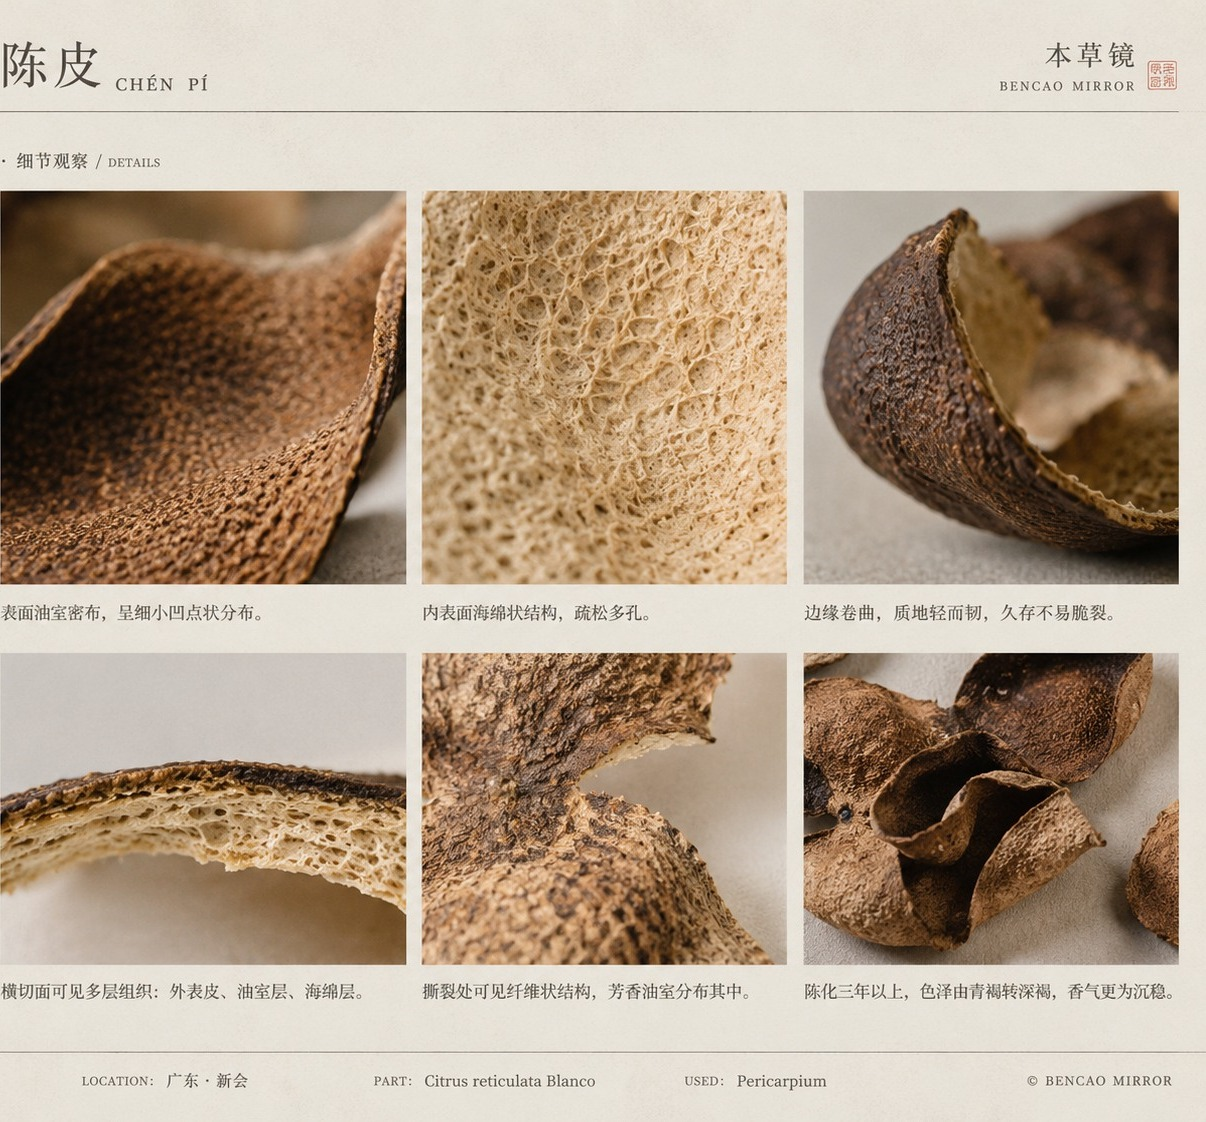
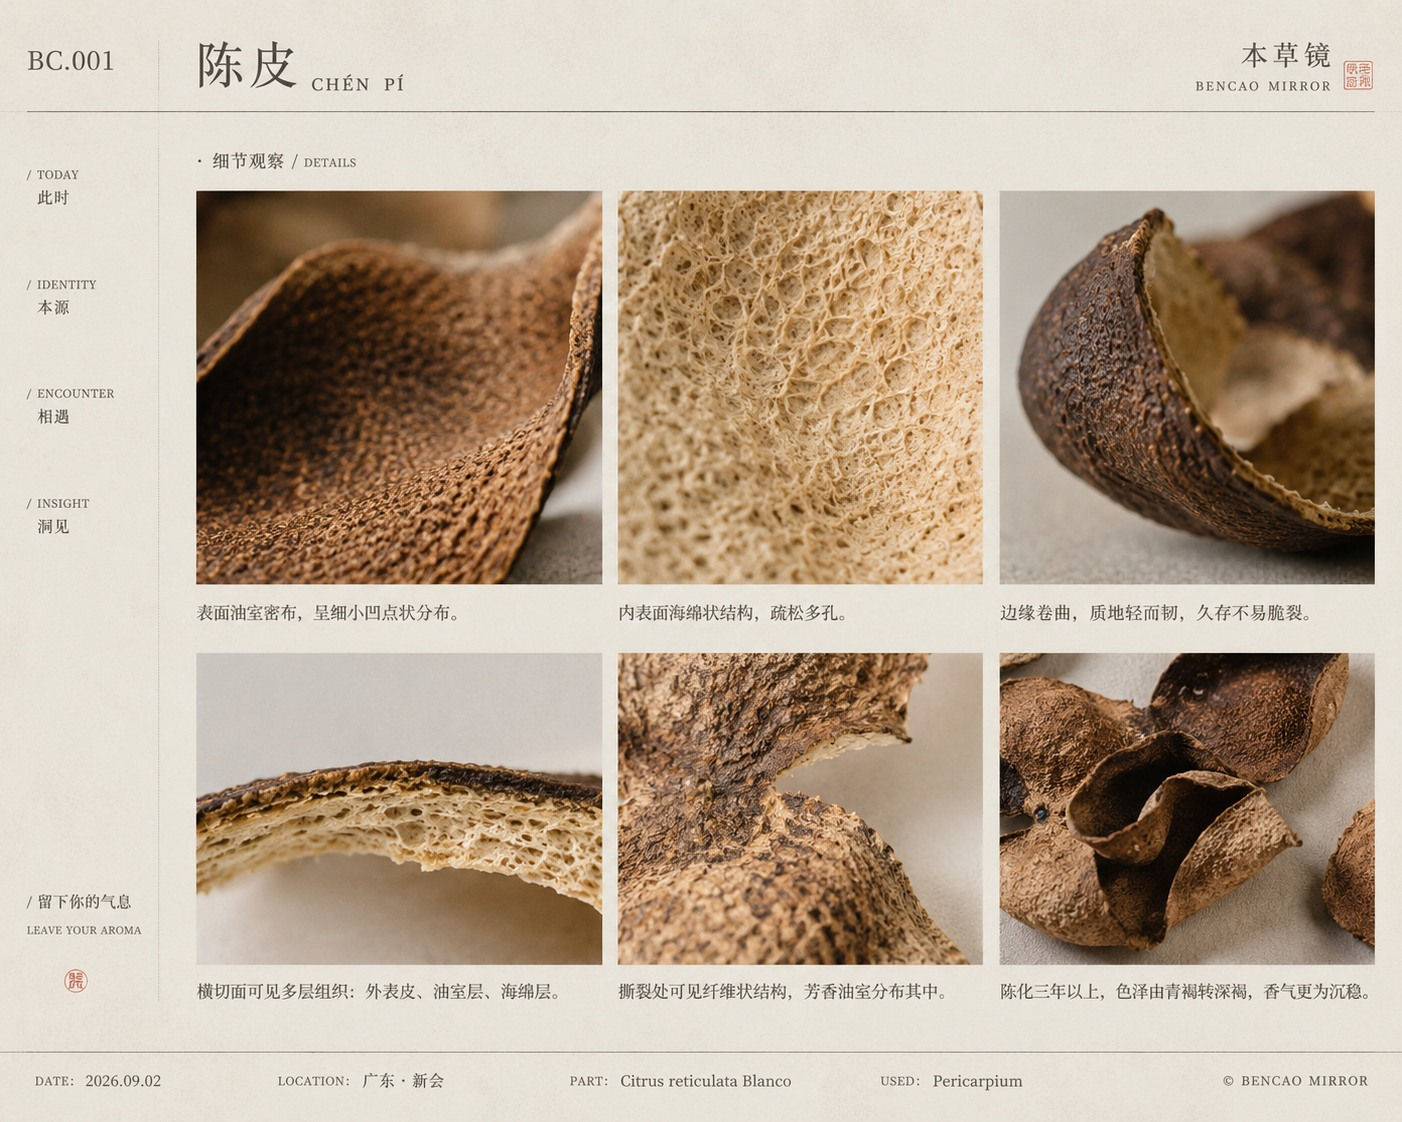
Revert plate left-crop; restore 标本盘 plate originals
SPECIMEN PLATE (图像档案) images were over-cut — restore the six plate
originals and drop their cache-bust query.

diff --git a/app.js b/app.js
@@ -6,7 +6,7 @@ const FILE_PAGE = name => `https://commons.wikimedia.org/wiki/File:${encodeURICo
 const HERBS = [
   {
     id:'bc001', no:'BC.001', name:'陈皮', pinyin:'CHÉN PÍ', latinDrug:'Citri Reticulatae Pericarpium', plant:'Citrus reticulata Blanco', part:'干燥成熟果皮', color:'#A87546', aromaColors:['#D79A55','#B8743E','#81705C'],
-    hero:'./images/bc001-hero-vf1.webp', origin:'./images/bc001-02-fresh-peel.jpg', material:'./images/bc001-03-dried-material.jpg', plate:'./images/bc001-study-detail-grid-01.jpg?v=ls2', detail1:'./images/bc001-atlas-outer.jpg', detail2:'./images/bc001-atlas-inner.jpg?v=ls2',
+    hero:'./images/bc001-hero-vf1.webp', origin:'./images/bc001-02-fresh-peel.jpg', material:'./images/bc001-03-dried-material.jpg', plate:'./images/bc001-study-detail-grid-01.jpg', detail1:'./images/bc001-atlas-outer.jpg', detail2:'./images/bc001-atlas-inner.jpg?v=ls2',
     heroPos:'56% 48%',
     today:['你可能已经见过它很多次。','今天，认真看一次。'],
     identity:{lead:'它来自成熟柑橘的果皮。',sub:'从果实到干燥后的材料，变化发生在时间里。',originTitle:'从果实开始。',originText:'剥开的果皮有清楚的内外两面。此时，它仍保留新鲜果实的颜色与水分。',materialTitle:'时间参与了形成。',materialText:'水分逐渐离开，果皮变干、卷曲、变轻；颜色、纹理与触感也随之改变。',note:'时间不是唯一的质量标准。品种、原料、加工与储存同样重要。'},
@@ -19,7 +19,7 @@ const HERBS = [
   },
   {
     id:'bc002', no:'BC.002', name:'薄荷', pinyin:'BÒ HÉ', latinDrug:'Menthae Haplocalycis Herba', plant:'Mentha haplocalyx Briq.', part:'干燥地上部分', color:'#71836B', aromaColors:['#75A06F','#84A876','#C7B55C'],
-    hero:'./images/bc002-hero-vf1.webp', origin:'./images/bc002-hero-vf1.webp', material:'./images/bc002-detail-01-vu1.jpg', plate:'./images/bc002-atlas-plate-vu1.jpg?v=ls2', detail1:'./images/bc002-detail-02-vu1.jpg?v=ls2', detail2:'./images/bc002-detail-03-vu1.jpg', atlasImages:[['./images/bc002-detail-01-vu1.jpg','植株全貌','植株挺立 · 叶片对生 · 叶色青绿'],['./images/bc002-detail-02-vu1.jpg?v=ls2','叶片表面','叶面皱缩 · 脉络清晰 · 细小腺点'],['./images/bc002-detail-03-vu1.jpg','叶片背面','叶背较浅 · 脉络凸起 · 细柔毛'],['./images/bc002-detail-04-vu1.jpg','茎与叶节','茎呈四棱 · 具细柔毛 · 叶对生于节上'],['./images/bc002-detail-05-vu1.jpg?v=ls2','花序','轮伞花序顶生 · 花小而密']], heroPos:'50% 45%',
+    hero:'./images/bc002-hero-vf1.webp', origin:'./images/bc002-hero-vf1.webp', material:'./images/bc002-detail-01-vu1.jpg', plate:'./images/bc002-atlas-plate-vu1.jpg', detail1:'./images/bc002-detail-02-vu1.jpg?v=ls2', detail2:'./images/bc002-detail-03-vu1.jpg', atlasImages:[['./images/bc002-detail-01-vu1.jpg','植株全貌','植株挺立 · 叶片对生 · 叶色青绿'],['./images/bc002-detail-02-vu1.jpg?v=ls2','叶片表面','叶面皱缩 · 脉络清晰 · 细小腺点'],['./images/bc002-detail-03-vu1.jpg','叶片背面','叶背较浅 · 脉络凸起 · 细柔毛'],['./images/bc002-detail-04-vu1.jpg','茎与叶节','茎呈四棱 · 具细柔毛 · 叶对生于节上'],['./images/bc002-detail-05-vu1.jpg?v=ls2','花序','轮伞花序顶生 · 花小而密']], heroPos:'50% 45%',
     today:['先不要把它等同于“清凉”。','先看一片叶。'],
     identity:{lead:'它来自一株有四棱茎、对生叶的薄荷。',sub:'被采收、干燥以后，叶、茎与花序一起成为药材的地上部分。',originTitle:'叶与茎先构成它。',originText:'叶片有清楚的脉络和锯齿边缘；茎有明显棱角。新鲜时，绿色与水分让结构显得舒展。',materialTitle:'叶、茎与花序共同构成地上部分。',materialText:'当前 Visual Study 先记录鲜活结构与可见特征；正式公开版再补拍同一摄影体系下的干燥药材整体。',note:'揉动会快速改变薄荷的气息，所以第一次闻之前，先不要揉。'},
     evidence:{mark:'药', title:'Menthae Haplocalycis Herba', lines:['干燥地上部分','辛，凉 · 肺、肝'], note:'传统 / 2025《中国药典》体系'},
@@ -31,7 +31,7 @@ const HERBS = [
   },
   {
     id:'bc003', no:'BC.003', name:'枸杞', pinyin:'GǑU QǏ', latinDrug:'Lycii Fructus', plant:'Lycium barbarum L.', part:'干燥成熟果实', color:'#A55343', aromaColors:['#C96D58','#B65B4B','#9C7659'],
-    hero:'./images/bc003-hero-vf1.webp', origin:'./images/bc003-hero-vf1.webp', material:'./images/bc003-detail-05-vu1.jpg?v=ls2', plate:'./images/bc003-atlas-plate-vu1.jpg?v=ls2', detail1:'./images/bc003-detail-03-vu1.jpg', detail2:'./images/bc003-detail-04-vu1.jpg', atlasImages:[['./images/bc003-detail-01-vu1.jpg','果枝全貌','枝条纤细 · 叶片互生 · 果实椭圆'],['./images/bc003-detail-02-vu1.jpg?v=ls2','叶片表面','叶片狭长 · 叶脉清晰 · 表面具细密纹理'],['./images/bc003-detail-03-vu1.jpg','果实表面','果实椭圆 · 表皮薄而光滑 · 微具纵纹'],['./images/bc003-detail-04-vu1.jpg','果实剖面','果肉柔软多汁 · 内含多枚扁平种子'],['./images/bc003-detail-05-vu1.jpg?v=ls2','干燥材料','干燥后果实皱缩 · 长椭圆形 · 表面纵皱']], heroPos:'50% 48%',
+    hero:'./images/bc003-hero-vf1.webp', origin:'./images/bc003-hero-vf1.webp', material:'./images/bc003-detail-05-vu1.jpg?v=ls2', plate:'./images/bc003-atlas-plate-vu1.jpg', detail1:'./images/bc003-detail-03-vu1.jpg', detail2:'./images/bc003-detail-04-vu1.jpg', atlasImages:[['./images/bc003-detail-01-vu1.jpg','果枝全貌','枝条纤细 · 叶片互生 · 果实椭圆'],['./images/bc003-detail-02-vu1.jpg?v=ls2','叶片表面','叶片狭长 · 叶脉清晰 · 表面具细密纹理'],['./images/bc003-detail-03-vu1.jpg','果实表面','果实椭圆 · 表皮薄而光滑 · 微具纵纹'],['./images/bc003-detail-04-vu1.jpg','果实剖面','果肉柔软多汁 · 内含多枚扁平种子'],['./images/bc003-detail-05-vu1.jpg?v=ls2','干燥材料','干燥后果实皱缩 · 长椭圆形 · 表面纵皱']], heroPos:'50% 48%',
     today:['它常常以一把红色出现。','今天，只看一颗。'],
     identity:{lead:'它来自宁夏枸杞的成熟果实。',sub:'成熟、采收、干燥之后，一颗多汁果实变成皱缩而柔韧的果干材料。',originTitle:'先是一颗成熟果实。',originText:'鲜果呈红色，轮廓饱满。单独看一颗时，果柄端、果尖与细微色差才会出现。',materialTitle:'干燥把水分收进皱纹里。',materialText:'果皮皱缩，体积减小；表面由光滑转为起伏，内部仍可能保留一定柔润感。',note:'枸杞常被当作食物，但本草镜第一版仍不鼓励品尝来源不明的材料。'},
     evidence:{mark:'药', title:'Lycii Fructus', lines:['宁夏枸杞的干燥成熟果实','甘，平 · 肝、肾'], note:'传统 / 2025《中国药典》体系'},
@@ -43,7 +43,7 @@ const HERBS = [
   },
   {
     id:'bc004', no:'BC.004', name:'桂花', pinyin:'GUÌ HUĀ', latinDrug:'Osmanthus fragrans (Thunb.) Lour.', plant:'Osmanthus fragrans (Thunb.) Lour.', part:'花（本草镜体验材料：来源明确的干燥桂花）', color:'#C49A4C', aromaColors:['#D6BA68','#C89E49','#A9845C'],
-    hero:'./images/bc004-hero-vf1.webp', origin:'./images/bc004-hero-vf1.webp', material:'./images/bc004-detail-05-vu1.jpg?v=ls2', plate:'./images/bc004-atlas-plate-vu1.jpg?v=ls2', detail1:'./images/bc004-detail-02-vu1.jpg?v=ls2', detail2:'./images/bc004-detail-03-vu1.jpg', atlasImages:[['./images/bc004-detail-01-vu1.jpg','花枝全貌','花簇生于叶腋 · 花叶相映 · 枝条舒展'],['./images/bc004-detail-02-vu1.jpg?v=ls2','花簇','小花密集成簇 · 花瓣肉质 · 淡黄色'],['./images/bc004-detail-03-vu1.jpg','单花结构','花冠四瓣 · 花瓣厚实 · 中央具短花蕊'],['./images/bc004-detail-04-vu1.jpg','叶片与叶脉','叶片革质 · 表面光滑 · 叶脉清晰'],['./images/bc004-detail-05-vu1.jpg?v=ls2','干燥花材','干燥后呈金黄色 · 花形完整或微卷']], heroPos:'50% 52%',
+    hero:'./images/bc004-hero-vf1.webp', origin:'./images/bc004-hero-vf1.webp', material:'./images/bc004-detail-05-vu1.jpg?v=ls2', plate:'./images/bc004-atlas-plate-vu1.jpg', detail1:'./images/bc004-detail-02-vu1.jpg?v=ls2', detail2:'./images/bc004-detail-03-vu1.jpg', atlasImages:[['./images/bc004-detail-01-vu1.jpg','花枝全貌','花簇生于叶腋 · 花叶相映 · 枝条舒展'],['./images/bc004-detail-02-vu1.jpg?v=ls2','花簇','小花密集成簇 · 花瓣肉质 · 淡黄色'],['./images/bc004-detail-03-vu1.jpg','单花结构','花冠四瓣 · 花瓣厚实 · 中央具短花蕊'],['./images/bc004-detail-04-vu1.jpg','叶片与叶脉','叶片革质 · 表面光滑 · 叶脉清晰'],['./images/bc004-detail-05-vu1.jpg?v=ls2','干燥花材','干燥后呈金黄色 · 花形完整或微卷']], heroPos:'50% 52%',
     today:['它很小，香气却常常先于形状被记住。','今天，先看见它。'],
     identity:{lead:'它来自木犀叶腋里成簇开放的小花。',sub:'花朵只有很小的尺度。干燥之后，颜色、卷曲和碎裂让它变成另一种轻盈材料。',originTitle:'先从叶腋里的花簇开始。',originText:'木犀的花聚在叶腋，花冠可呈黄白、淡黄、黄色或橙红。完整花朵本身很小。',materialTitle:'干燥会放大“轻”和“碎”。',materialText:'花冠收缩、颜色加深，花梗与碎瓣混在一起。少量材料就形成很高的表面积。',note:'桂花在本草镜中按植物与感官材料呈现，不把它标成现行《中国药典》标准药材。'},
     evidence:{mark:'', title:'Osmanthus fragrans (Thunb.) Lour.', lines:['木犀科 · 木犀属','花簇生叶腋 · 花极芳香'], note:'植物学身份记录；这里不使用“药”标签'},
@@ -55,7 +55,7 @@ const HERBS = [
   },
   {
     id:'bc005', no:'BC.005', name:'菊花', pinyin:'JÚ HUĀ', latinDrug:'Chrysanthemi Flos', plant:'Chrysanthemum morifolium Ramat.', part:'干燥头状花序', color:'#9A8B60', aromaColors:['#D3C48E','#B7A66D','#95836B'],
-    hero:'./images/bc005-hero-vf1.webp', origin:'./images/bc005-hero-vf1.webp', material:'./images/bc005-detail-05-vu1.jpg?v=ls2', plate:'./images/bc005-atlas-plate-vu1.jpg?v=ls2', detail1:'./images/bc005-detail-02-vu1.jpg?v=ls2', detail2:'./images/bc005-detail-03-vu1.jpg', atlasImages:[['./images/bc005-detail-01-vu1.jpg','花枝全貌','植株挺立 · 花枝分枝 · 花朵簇生'],['./images/bc005-detail-02-vu1.jpg?v=ls2','花序中心','管状花密集 · 球状排列 · 黄色'],['./images/bc005-detail-03-vu1.jpg','舌状花','舌状花呈长条形 · 边缘微卷 · 质地薄柔'],['./images/bc005-detail-04-vu1.jpg','花叶与花蕾','叶片羽状分裂 · 花蕾外层苞片紧密包裹'],['./images/bc005-detail-05-vu1.jpg?v=ls2','干燥花材','干燥后花形完整 · 瓣片皱缩卷曲 · 质地轻脆']], heroPos:'50% 46%',
+    hero:'./images/bc005-hero-vf1.webp', origin:'./images/bc005-hero-vf1.webp', material:'./images/bc005-detail-05-vu1.jpg?v=ls2', plate:'./images/bc005-atlas-plate-vu1.jpg', detail1:'./images/bc005-detail-02-vu1.jpg?v=ls2', detail2:'./images/bc005-detail-03-vu1.jpg', atlasImages:[['./images/bc005-detail-01-vu1.jpg','花枝全貌','植株挺立 · 花枝分枝 · 花朵簇生'],['./images/bc005-detail-02-vu1.jpg?v=ls2','花序中心','管状花密集 · 球状排列 · 黄色'],['./images/bc005-detail-03-vu1.jpg','舌状花','舌状花呈长条形 · 边缘微卷 · 质地薄柔'],['./images/bc005-detail-04-vu1.jpg','花叶与花蕾','叶片羽状分裂 · 花蕾外层苞片紧密包裹'],['./images/bc005-detail-05-vu1.jpg?v=ls2','干燥花材','干燥后花形完整 · 瓣片皱缩卷曲 · 质地轻脆']], heroPos:'50% 46%',
     today:['“一朵菊花”其实有很多层。','今天，从花心往外看。'],
     identity:{lead:'它来自菊的头状花序。',sub:'盛开时采收，经过不同加工方式后，花序整体成为干燥材料。',originTitle:'它不是单一的一片花瓣。',originText:'外围与中央的花在同一个花序里形成层次；颜色、形态与排列让整朵花有明确中心。',materialTitle:'干燥保留了花序，也改变了支撑。',materialText:'花瓣折缩、花心变得密实或松散，整体变轻、变脆；不同产地和加工方式也会带来外观差异。',note:'菊花药材按产地与加工方法可分多种类型；原型页面不把某一张视觉研究图当作全部菊花。'},
     evidence:{mark:'药', title:'Chrysanthemi Flos', lines:['菊的干燥头状花序','甘、苦，微寒 · 肺、肝'], note:'传统 / 2025《中国药典》体系'},
@@ -67,7 +67,7 @@ const HERBS = [
   },
   {
     id:'bc006', no:'BC.006', name:'紫苏', pinyin:'ZǏ SŪ', latinDrug:'Perillae Folium', plant:'Perilla frutescens (L.) Britt.', part:'干燥叶（或带嫩枝）', color:'#74586C', aromaColors:['#8A687C','#745768','#87735C'],
-    hero:'./images/bc006-hero-vf1.webp', origin:'./images/bc006-hero-vf1.webp', material:'./images/bc006-detail-05-vu1.jpg?v=ls2', plate:'./images/bc006-atlas-plate-vu1.jpg?v=ls2', detail1:'./images/bc006-detail-02-vu1.jpg?v=ls2', detail2:'./images/bc006-detail-03-vu1.jpg', atlasImages:[['./images/bc006-detail-01-vu1.jpg','叶枝全貌','植株挺立 · 叶片对生 · 叶形宽卵 · 叶缘锯齿'],['./images/bc006-detail-02-vu1.jpg?v=ls2','叶片表面','叶面紫红 · 脉络清晰 · 具细小腺点'],['./images/bc006-detail-03-vu1.jpg','叶片背面','叶背色较浅 · 脉络隆起 · 密被短柔毛'],['./images/bc006-detail-04-vu1.jpg','茎与叶节','茎呈紫绿色 · 具细柔毛 · 叶对生于节上'],['./images/bc006-detail-05-vu1.jpg?v=ls2','干燥叶材','干燥后叶片卷曲 · 质地轻脆 · 色泽紫褐']], heroPos:'50% 45%',
+    hero:'./images/bc006-hero-vf1.webp', origin:'./images/bc006-hero-vf1.webp', material:'./images/bc006-detail-05-vu1.jpg?v=ls2', plate:'./images/bc006-atlas-plate-vu1.jpg', detail1:'./images/bc006-detail-02-vu1.jpg?v=ls2', detail2:'./images/bc006-detail-03-vu1.jpg', atlasImages:[['./images/bc006-detail-01-vu1.jpg','叶枝全貌','植株挺立 · 叶片对生 · 叶形宽卵 · 叶缘锯齿'],['./images/bc006-detail-02-vu1.jpg?v=ls2','叶片表面','叶面紫红 · 脉络清晰 · 具细小腺点'],['./images/bc006-detail-03-vu1.jpg','叶片背面','叶背色较浅 · 脉络隆起 · 密被短柔毛'],['./images/bc006-detail-04-vu1.jpg','茎与叶节','茎呈紫绿色 · 具细柔毛 · 叶对生于节上'],['./images/bc006-detail-05-vu1.jpg?v=ls2','干燥叶材','干燥后叶片卷曲 · 质地轻脆 · 色泽紫褐']], heroPos:'50% 45%',
     today:['先别只看它的紫。','沿着叶脉走一次。'],
     identity:{lead:'它来自紫苏的叶，或带嫩枝的叶。',sub:'鲜叶有清楚的锯齿、叶脉和上下表面；干燥后会皱缩卷曲，颜色与脆度一起改变。',originTitle:'一片叶先有方向。',originText:'叶尖、叶基、圆锯齿与中脉共同建立轮廓；不同植株可呈紫色，或上表面偏绿、下表面偏紫。',materialTitle:'干燥把一片展开的叶变成卷曲薄片。',materialText:'叶片失水后容易皱缩、破碎，边缘和叶脉仍是辨认材料状态的重要视觉线索。',note:'当前紫苏 Material Atlas 使用叶片结构视觉研究图作为摄影占位；正式发布前应补拍可核验的干燥紫苏叶材料。'},
     evidence:{mark:'药', title:'Perillae Folium', lines:['干燥叶（或带嫩枝）','辛，温 · 肺、脾'], note:'传统 / 2025《中国药典》体系'},
